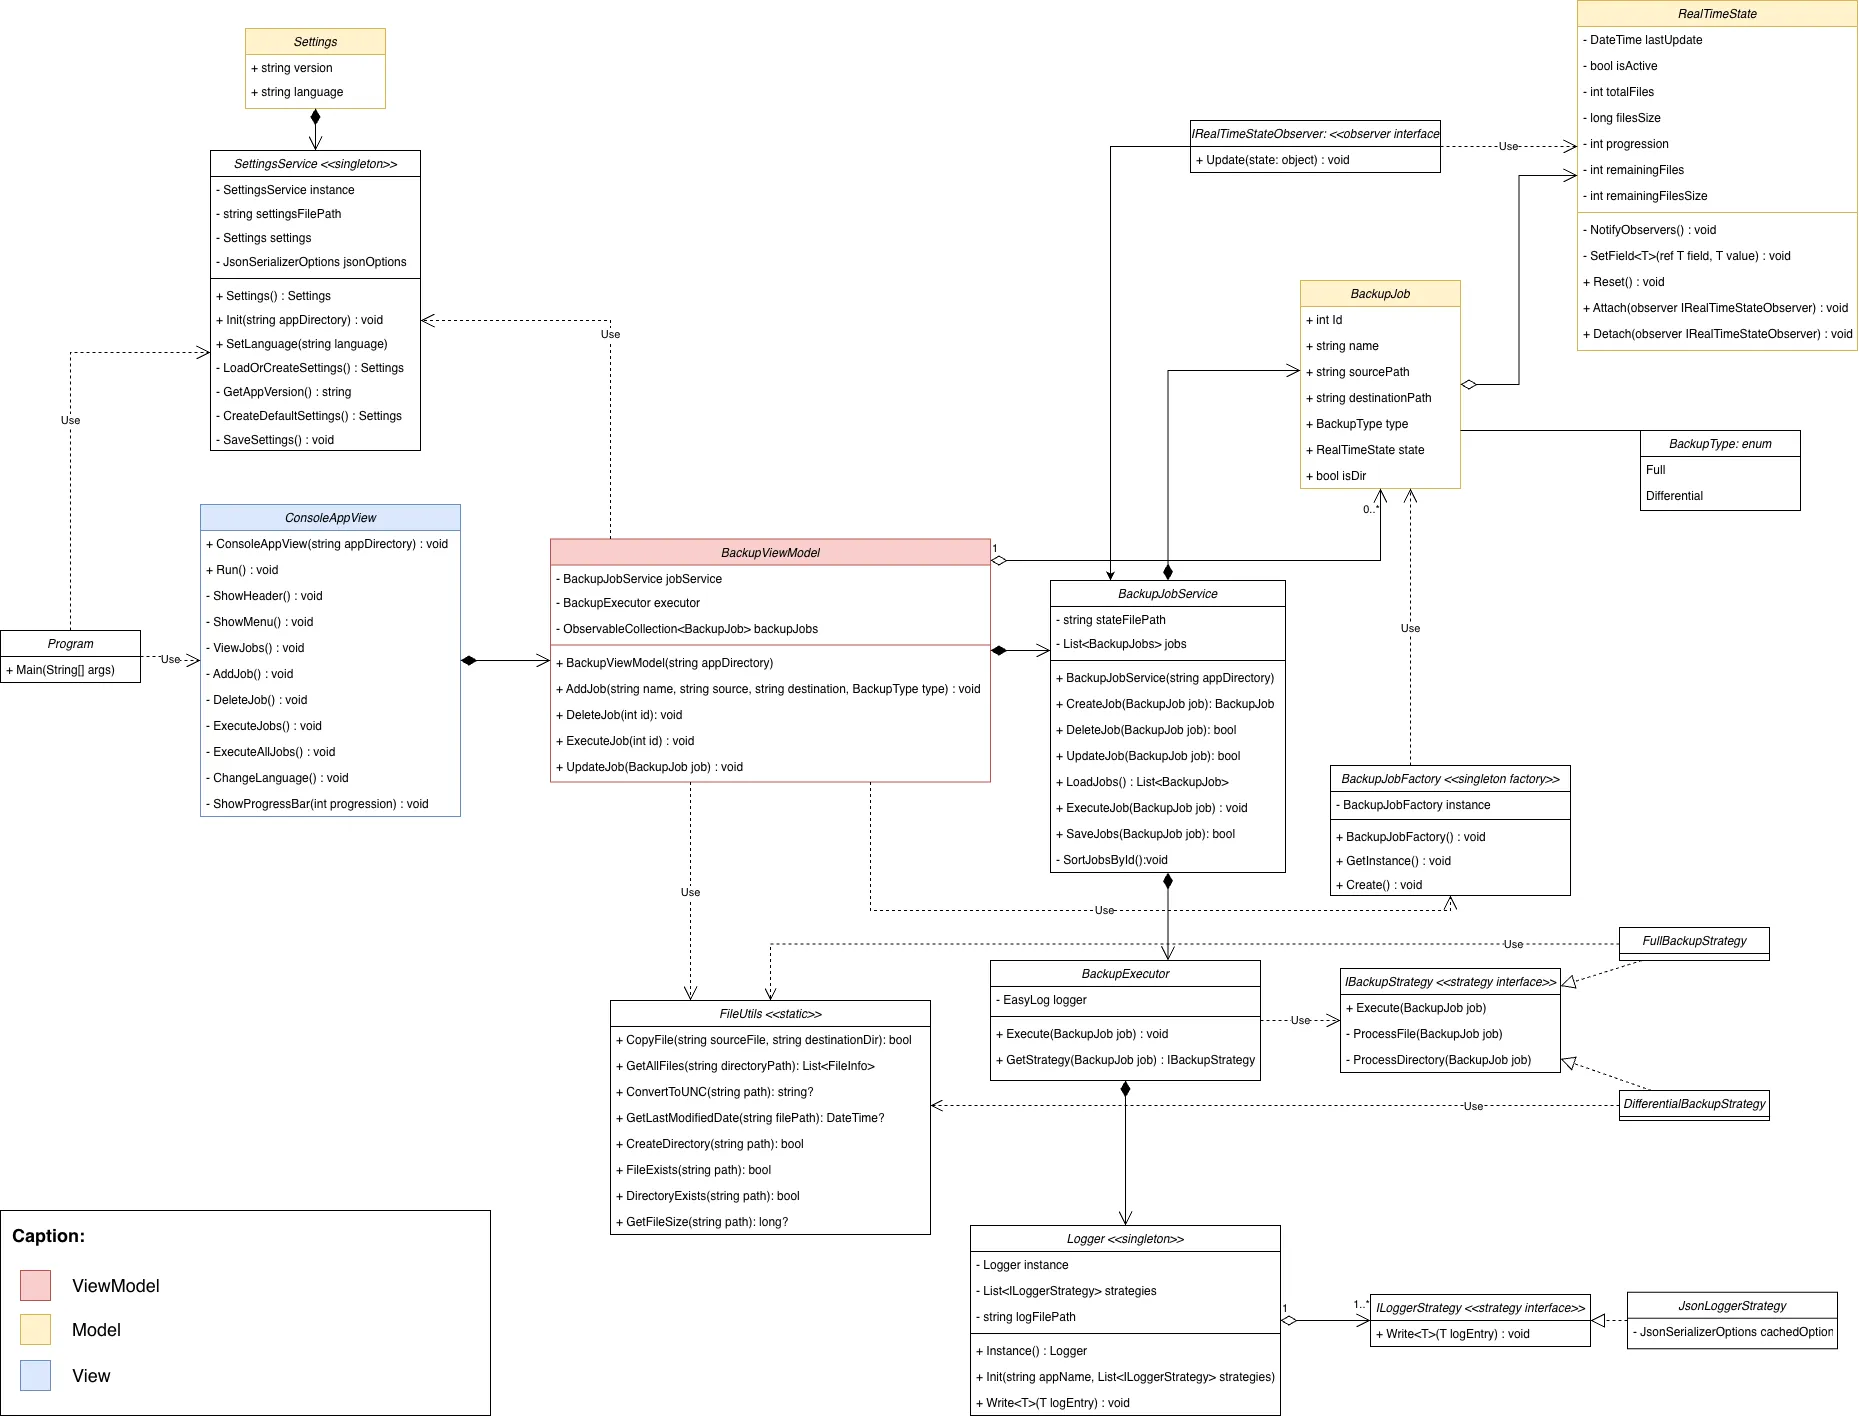
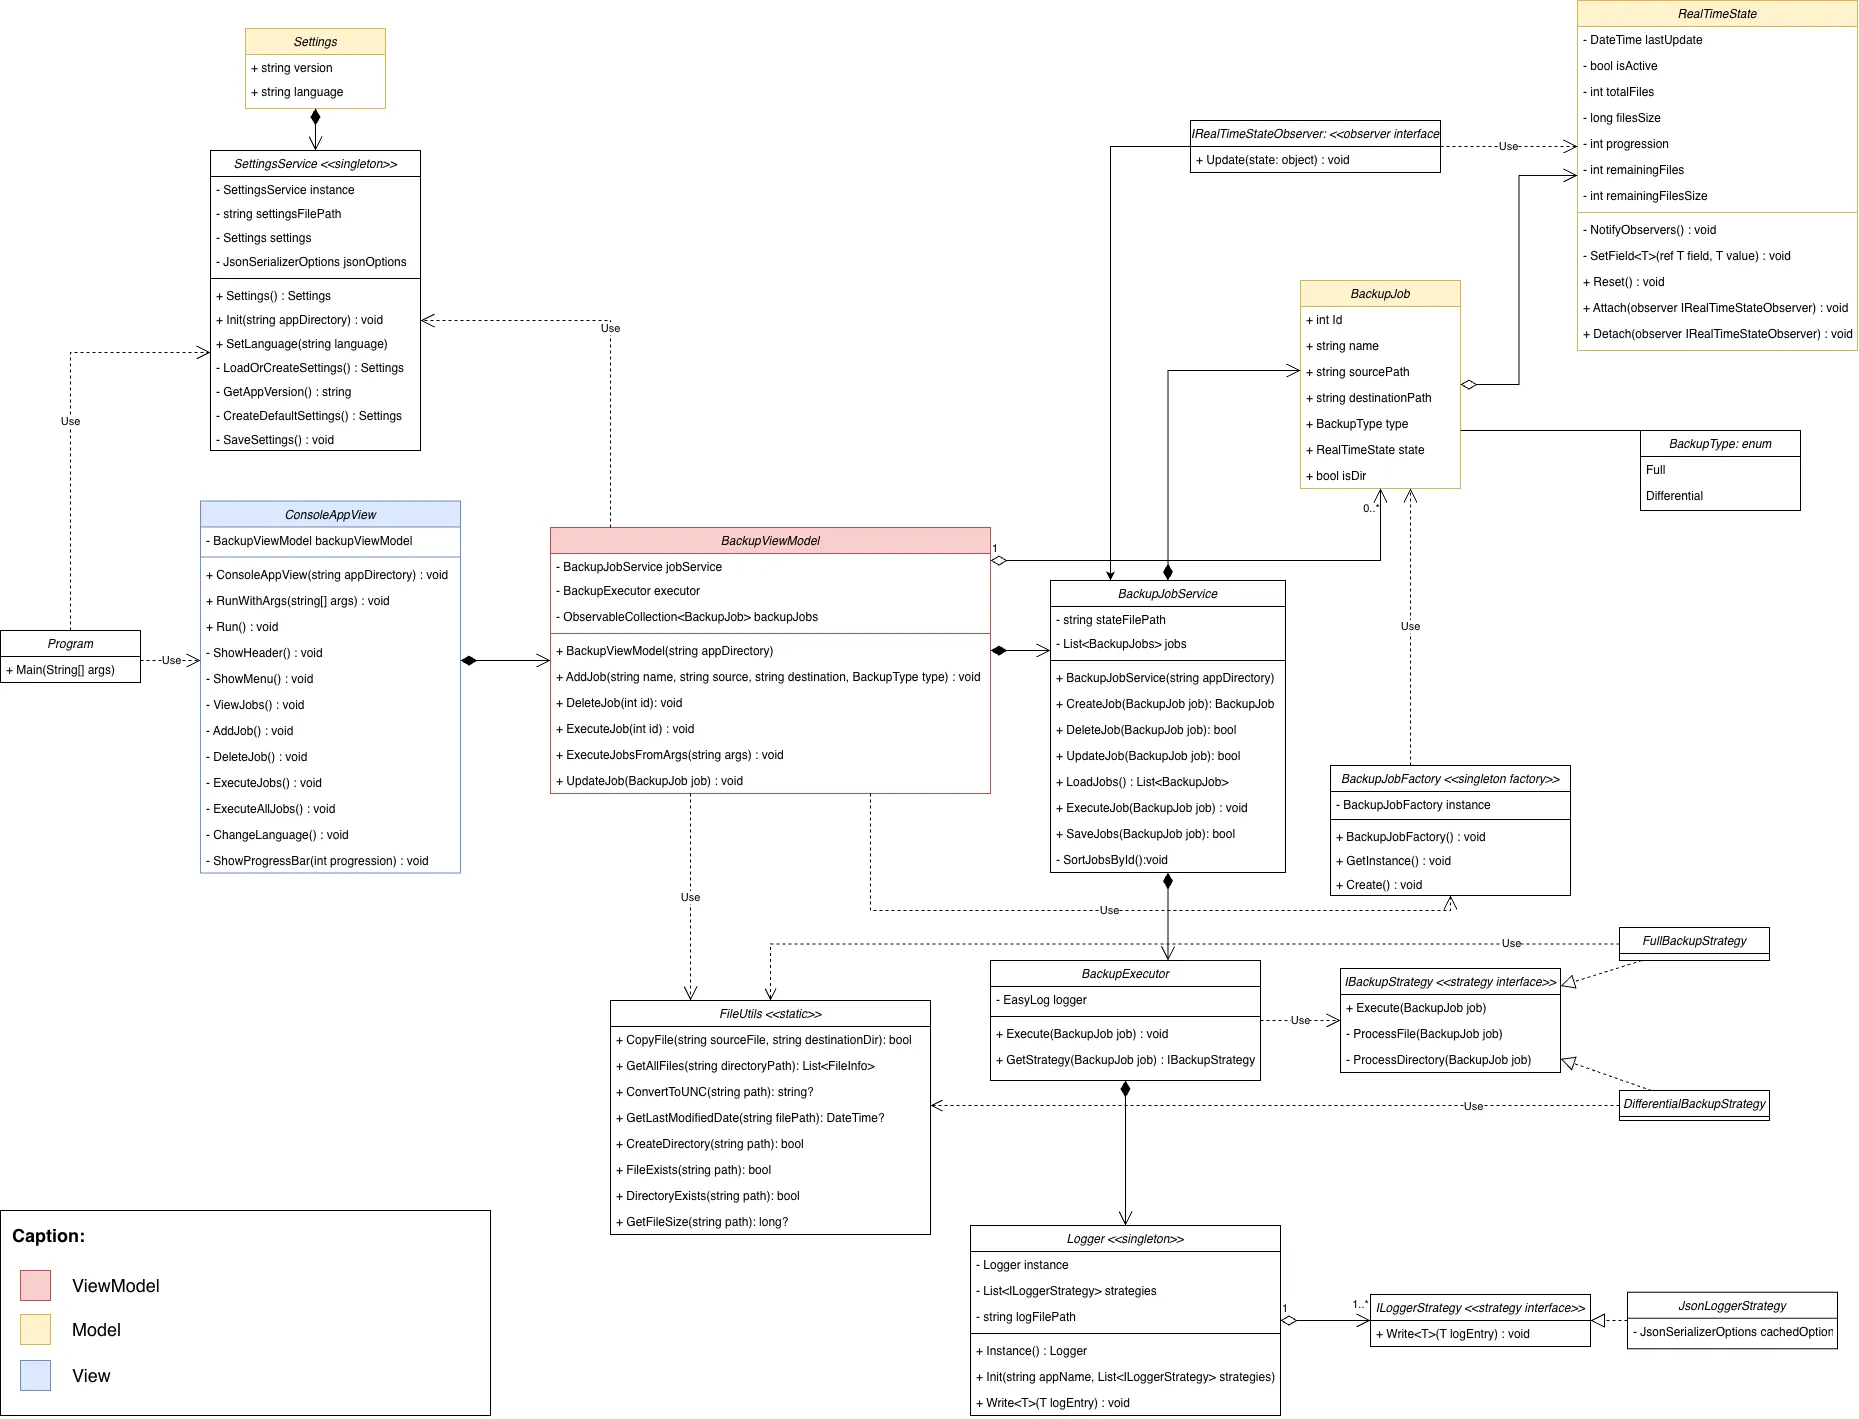
feat: add CLI support for executing jobs based on command line arguments

Changed region(s): [[0.2808, 0.3721, 0.5304, 0.5581], [0.0936, 0.3411, 0.2496, 0.6202]]

diff --git a/ConsoleApp/View/ConsoleAppView.cs b/ConsoleApp/View/ConsoleAppView.cs
@@ -7,11 +7,19 @@ namespace EasySave.ConsoleApp.View;
 
 public class ConsoleAppView
 {
-    private readonly BackupViewModel _viewModel;
+    private readonly BackupViewModel _backupViewModel;
 
     public ConsoleAppView(string appSaveDirectory)
     {
-        _viewModel = new BackupViewModel(appSaveDirectory);
+        _backupViewModel = new BackupViewModel(appSaveDirectory);
+    }
+
+    public void RunWithArgs(string[] args)
+    {
+        var executed = _backupViewModel.ExecuteJobsFromArgs(args[0]);
+        Console.WriteLine(executed
+            ? Messages.ResourceManager.GetString("ExecuteJobsSuccess")
+            : Messages.ResourceManager.GetString("ExecuteJobsNoValid"));
     }
 
     private static void ShowHeader()
@@ -96,8 +104,8 @@ public class ConsoleAppView
 
     private void ViewJobs()
     {
-        if (_viewModel.Jobs == null) return;
-        var jobs = _viewModel.Jobs.ToList();
+        if (_backupViewModel.Jobs == null) return;
+        var jobs = _backupViewModel.Jobs.ToList();
         Console.WriteLine(Messages.ResourceManager.GetString("ViewJobsTitle"));
 
         if (jobs.Count == 0)
@@ -140,7 +148,7 @@ public class ConsoleAppView
         };
 
         BackupJob job;
-        var currentJobs = _viewModel.Jobs?.ToList() ?? [];
+        var currentJobs = _backupViewModel.Jobs?.ToList() ?? [];
         try
         {
             job = BackupJobFactory.GetInstance().CreateJob(name, sourcePath, destinationPath, saveType, currentJobs);
@@ -153,7 +161,7 @@ public class ConsoleAppView
         }
 
         Console.Clear();
-        Console.WriteLine(_viewModel.AddJob(job) 
+        Console.WriteLine(_backupViewModel.AddJob(job) 
             ? Messages.ResourceManager.GetString("AddJobSuccess") 
             : Messages.ResourceManager.GetString("AddJobFailed"));
     }
@@ -163,7 +171,7 @@ public class ConsoleAppView
         Console.WriteLine(Messages.ResourceManager.GetString("DeleteJobPrompt"));
         ViewJobs();
     
-        var jobs = _viewModel.Jobs?.ToList();
+        var jobs = _backupViewModel.Jobs?.ToList();
     
         if (jobs == null || jobs.Count == 0)
         {
@@ -179,7 +187,7 @@ public class ConsoleAppView
             var job = jobs[jobNumber - 1];
             Console.Clear();
 
-            Console.WriteLine(_viewModel.DeleteJob(job)
+            Console.WriteLine(_backupViewModel.DeleteJob(job)
                 ? Messages.ResourceManager.GetString("DeleteJobSuccess")
                 : Messages.ResourceManager.GetString("DeleteJobFailed"));
         }
@@ -195,7 +203,7 @@ public class ConsoleAppView
     {
         ViewJobs();
         Console.WriteLine(Messages.ResourceManager.GetString("ExecuteJobsPrompt"));
-        var jobsList = _viewModel.Jobs?.ToList();
+        var jobsList = _backupViewModel.Jobs?.ToList();
         
         if (jobsList == null || jobsList.Count == 0)
         {
@@ -204,59 +212,25 @@ public class ConsoleAppView
             return;
         }
         
-        var input = Console.ReadLine();
+        var executed = _backupViewModel.ExecuteJobsFromArgs(Console.ReadLine());
 
-        var selectedJobs = new List<BackupJob>();
-        var parts = input?.Split(';').Select(p => p.Trim()).ToArray();
-
-        if (parts != null)
-        {
-            foreach (var part in parts)
-            {
-                if (part.Contains('-'))
-                {
-                    var range = part.Split('-');
-                    if (!int.TryParse(range[0], out var start) || !int.TryParse(range[1], out var end)) continue;
-                    for (var i = start; i <= end && i <= jobsList.Count; i++)
-                    {
-                        selectedJobs.Add(jobsList[i - 1]);
-                    }
-                }
-                else if (int.TryParse(part, out var jobNumber) && jobNumber > 0 && jobNumber <= jobsList.Count)
-                {
-                    selectedJobs.Add(jobsList[jobNumber - 1]);
-                }
-            }
-        }
-
-        Console.Clear();
-        if (selectedJobs.Count > 0)
-        {
-            foreach (var job in selectedJobs)
-            {
-                _viewModel.ExecuteJob(job);
-            }
-
-            Console.WriteLine(Messages.ResourceManager.GetString("ExecuteJobsSuccess"));
-        }
-        else
-        {
-            Console.WriteLine(Messages.ResourceManager.GetString("ExecuteJobsNoValid"));
-        }
+        Console.WriteLine(executed
+            ? Messages.ResourceManager.GetString("ExecuteJobsSuccess")
+            : Messages.ResourceManager.GetString("ExecuteJobsNoValid"));
     }
 
     private void ExecuteAllJobs()
     {
-        if (_viewModel.Jobs != null && _viewModel.Jobs.Count == 0) 
+        if (_backupViewModel.Jobs != null && _backupViewModel.Jobs.Count == 0) 
         {
             Console.Clear();
             Console.WriteLine(Messages.ResourceManager.GetString("ExecuteJobsNoJobs"));
             return;
         }
         
-        if (_viewModel.Jobs != null)
-            foreach (var job in _viewModel.Jobs.ToList())
-                _viewModel.ExecuteJob(job);
+        if (_backupViewModel.Jobs != null)
+            foreach (var job in _backupViewModel.Jobs.ToList())
+                _backupViewModel.ExecuteJob(job);
         
         Console.Clear();
         Console.WriteLine(Messages.ResourceManager.GetString("ExecuteAllJobsSuccess"));

diff --git a/ConsoleApp/ViewModel/BackupViewModel.cs b/ConsoleApp/ViewModel/BackupViewModel.cs
@@ -23,4 +23,36 @@ public class BackupViewModel
     public void ExecuteJob(BackupJob job) => _jobService.ExecuteJob(job);
     
     public void UpdateJob(BackupJob job) => _jobService.UpdateJob(job);
+    
+    public bool ExecuteJobsFromArgs(string? args)
+    {
+        var selectedJobs = new List<BackupJob>();
+        var parts = args?.Split(';').Select(p => p.Trim()).ToArray();
+
+        if (parts != null)
+        {
+            foreach (var part in parts)
+            {
+                if (part.Contains('-'))
+                {
+                    var range = part.Split('-');
+                    if (!int.TryParse(range[0], out var start) || !int.TryParse(range[1], out var end)) continue;
+                    if (Jobs == null) continue;
+                    for (var i = start; i <= end && i <= Jobs.Count; i++)
+                    {
+                        selectedJobs.Add(Jobs[i - 1]);
+                    }
+                }
+                else if (int.TryParse(part, out var jobNumber) && jobNumber > 0 && Jobs != null && jobNumber <= Jobs.Count)
+                {
+                    selectedJobs.Add(Jobs[jobNumber - 1]);
+                }
+            }
+        }
+        foreach (var job in selectedJobs)
+        {
+            ExecuteJob(job);
+        }
+        return true;
+    }
 }

diff --git a/ConsoleApp/Program.cs b/ConsoleApp/Program.cs
@@ -1,4 +1,4 @@
-using EasyLog;
+using EasyLog;
 using EasyLog.Strategies;
 using EasySave.ConsoleApp.Service;
 using EasySave.ConsoleApp.View;
@@ -15,6 +15,15 @@ internal class Program
         SettingsService.Init(appSaveDirectory);
 
         var consoleAppView = new ConsoleAppView(appSaveDirectory);
+
+        // cli execution (`EasySave.exe 1-3` or `EasySave.exe 1-3`)
+        if (args.Length > 0)
+        {
+            consoleAppView.RunWithArgs(args);
+            return;
+        }
+
+        // console gui execution
         consoleAppView.Run();
     }
 }
